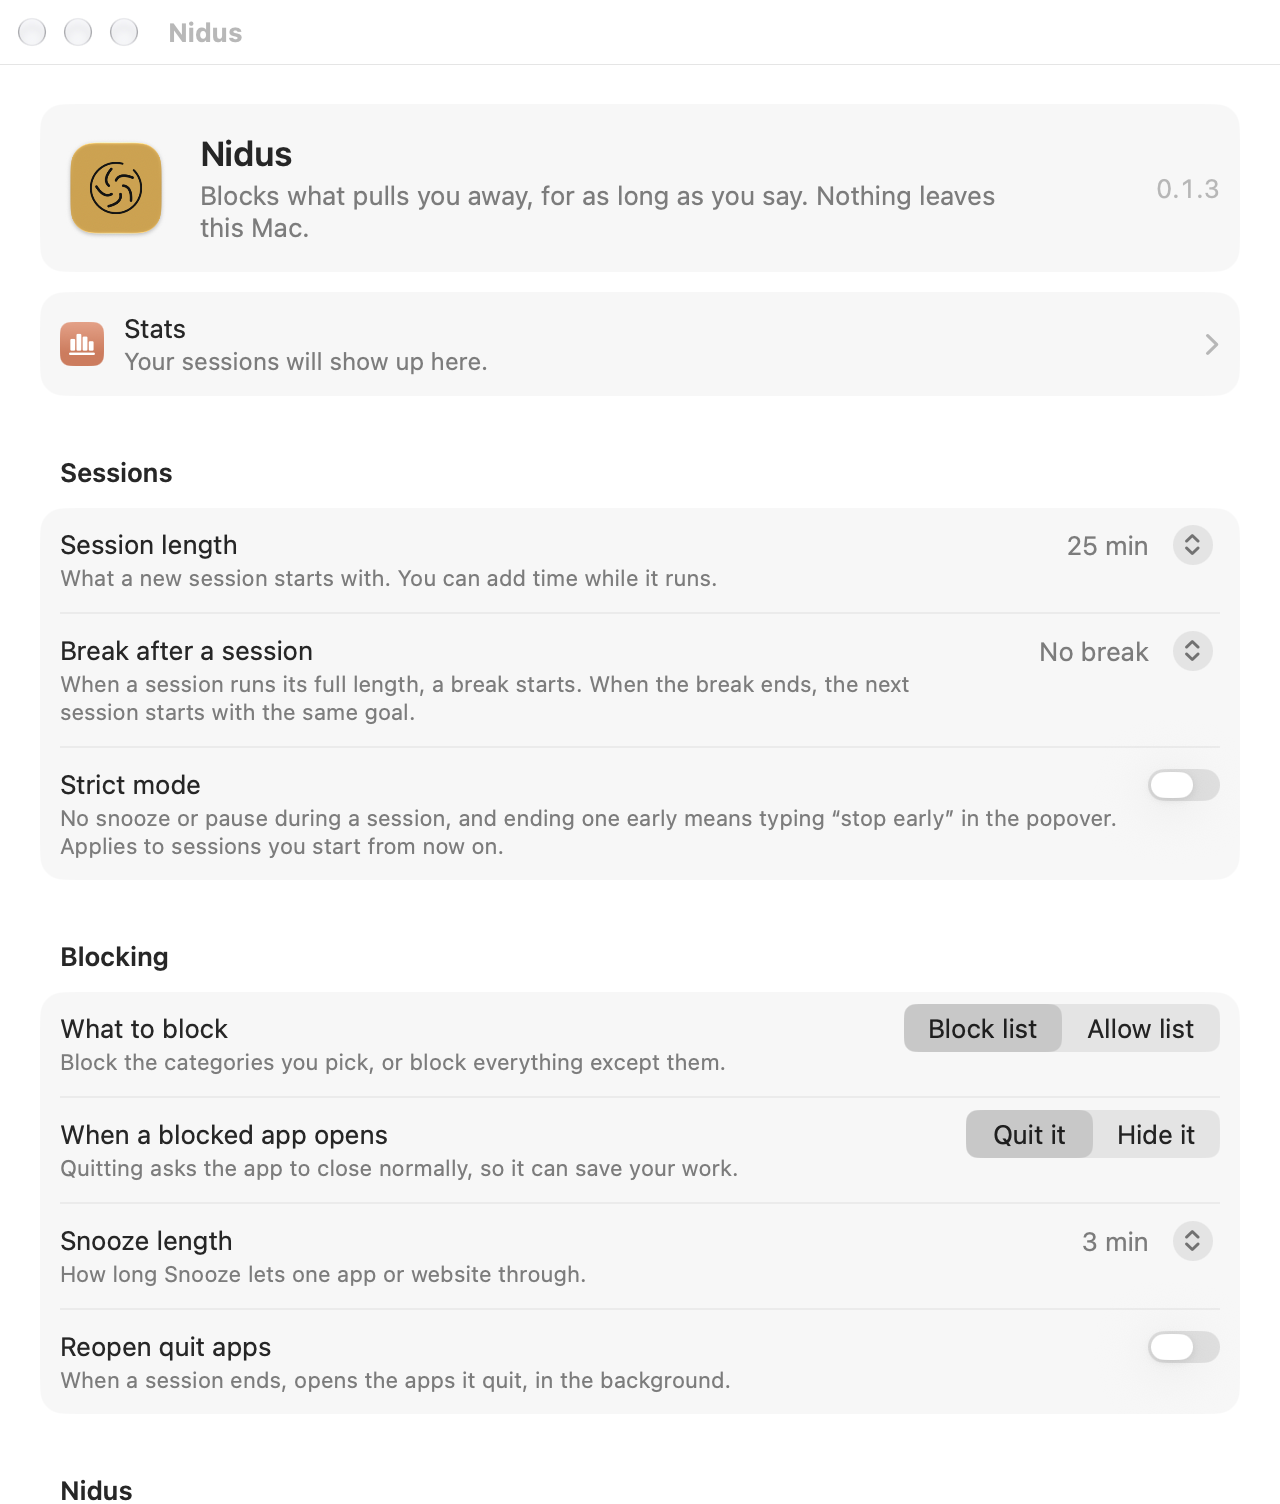
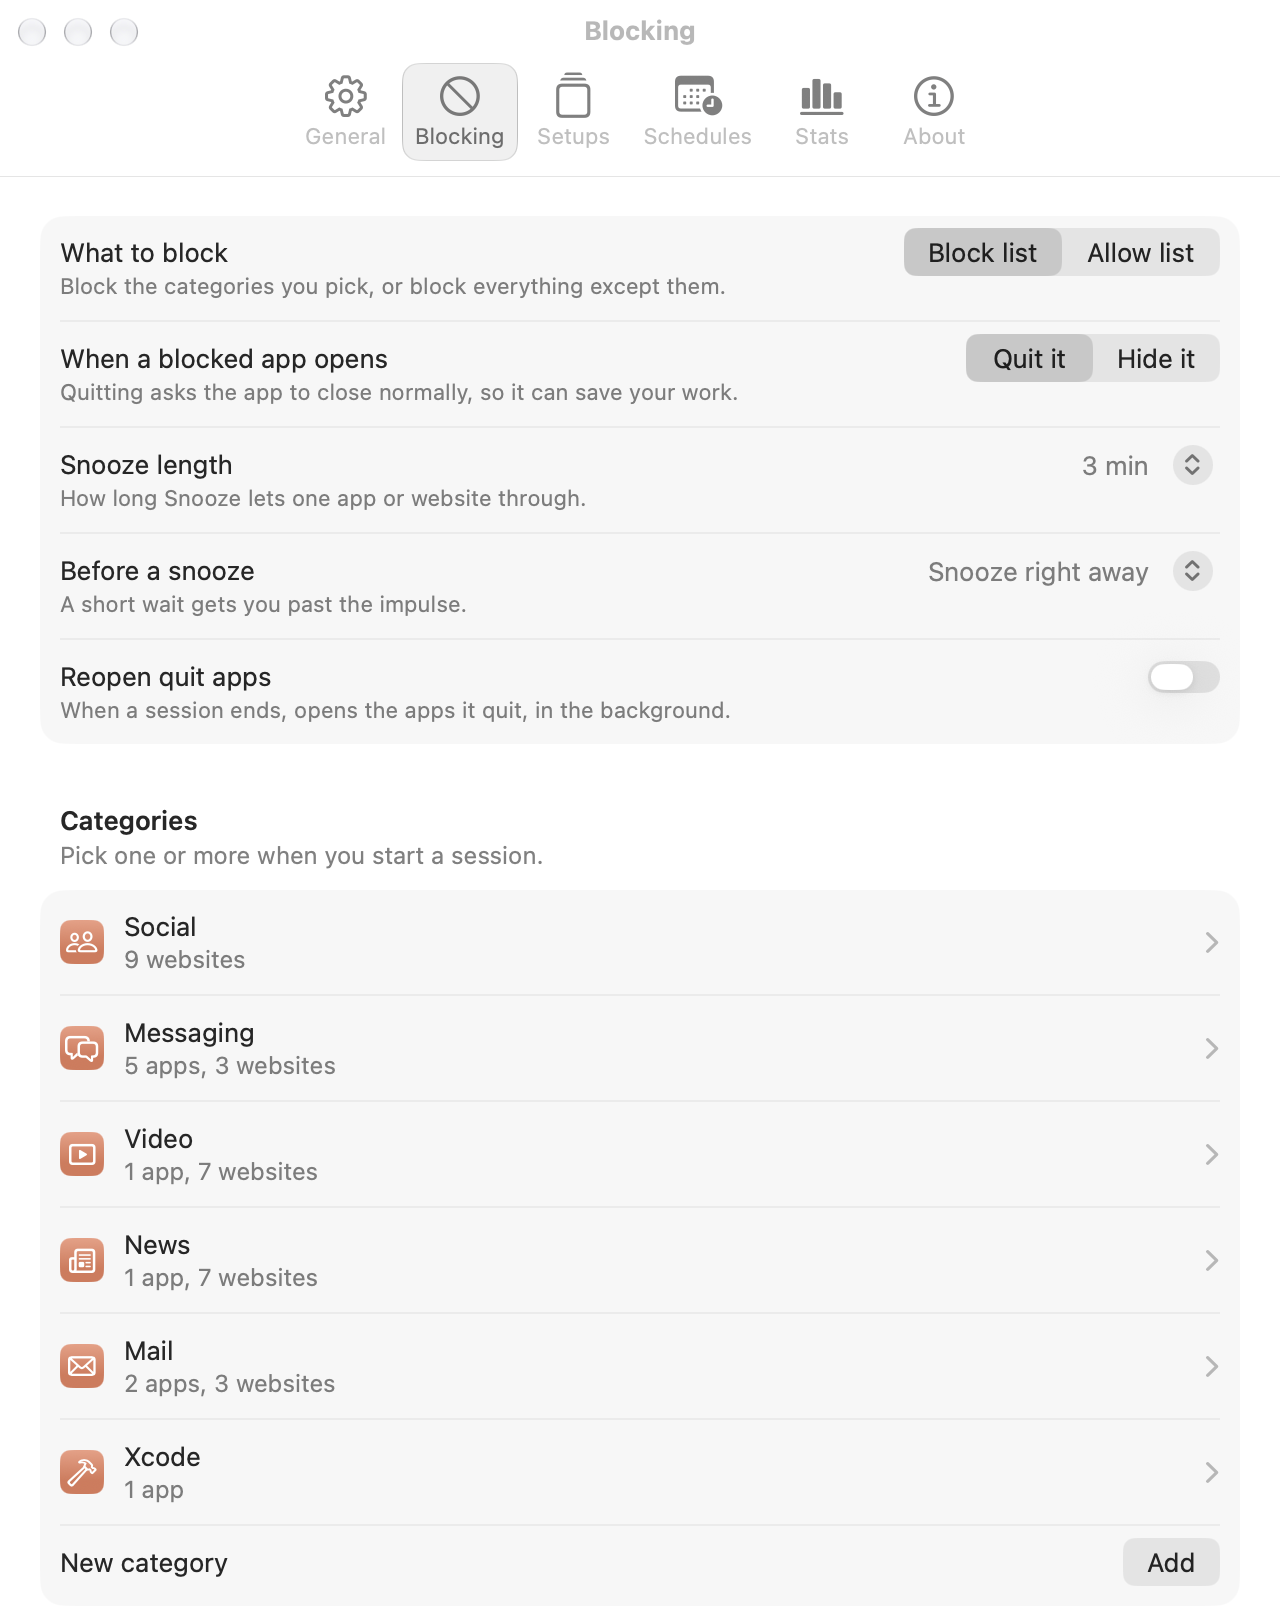
README: new pictures of 0.2
Taken from the real windows (--capture-surfaces): the popover with
setups, a running session, the cards, and the Blocking and Stats tabs.

diff --git a/README.md b/README.md
@@ -5,7 +5,7 @@
 **Block the apps and websites that pull you away, for as long as you say.** A
 Solanum product.
 
-<img src="docs/popover-idle.png" width="440" alt="The Nidus popover under the menu bar: a goal field reading What are you working on?, a 25 minute length, the Social and Video categories, and a clay Start button">
+<img src="docs/popover-idle.png" width="440" alt="The Nidus popover under the menu bar: a goal field reading What are you working on?, three setups (Deep work, Writing, Reading), a 25 minute length, the Social and Video categories, a clay Start button, and Today 1 hr 10 min, 6-day streak">
 
 **Install in one line**: paste into Terminal (Apple silicon, macOS 27):
 
@@ -60,6 +60,8 @@ and the categories to block, and press Start. Until the session ends:
   Settings can make Snooze wait 10 or 30 seconds first, to get you past the
   impulse. Or turn on strict mode, which takes snooze and pause away, and asks
   you to type "stop early" to end a session before its time.
+
+  <img src="docs/popover-running.png" width="440" alt="The popover during a session: Write the launch post, until 9:37 PM, blocked 2 times, 25:00 left, with pause, +5 and stop buttons">
 - **A card says what happened**, at the top of your screen: what was blocked,
   a snooze about to run out, and how the session went.
 
@@ -80,6 +82,8 @@ and the categories to block, and press Start. Until the session ends:
   card sums up last week. Export your history as CSV or JSON whenever you
   like. Categories for social media, messaging, video, news and mail are
   ready to use, and you can make your own.
+
+<img src="docs/settings.png" width="420" alt="Nidus Settings on its Blocking tab, with toolbar tabs for General, Blocking, Setups, Schedules, Stats and About, the blocking choices, and the categories"> <img src="docs/stats.png" width="420" alt="The Stats tab: 2 hr 27 min this week, a 6-day streak, 76 sessions, six months of focus as a graph, and the most blocked app">
 
 ## Start it from anywhere
 
